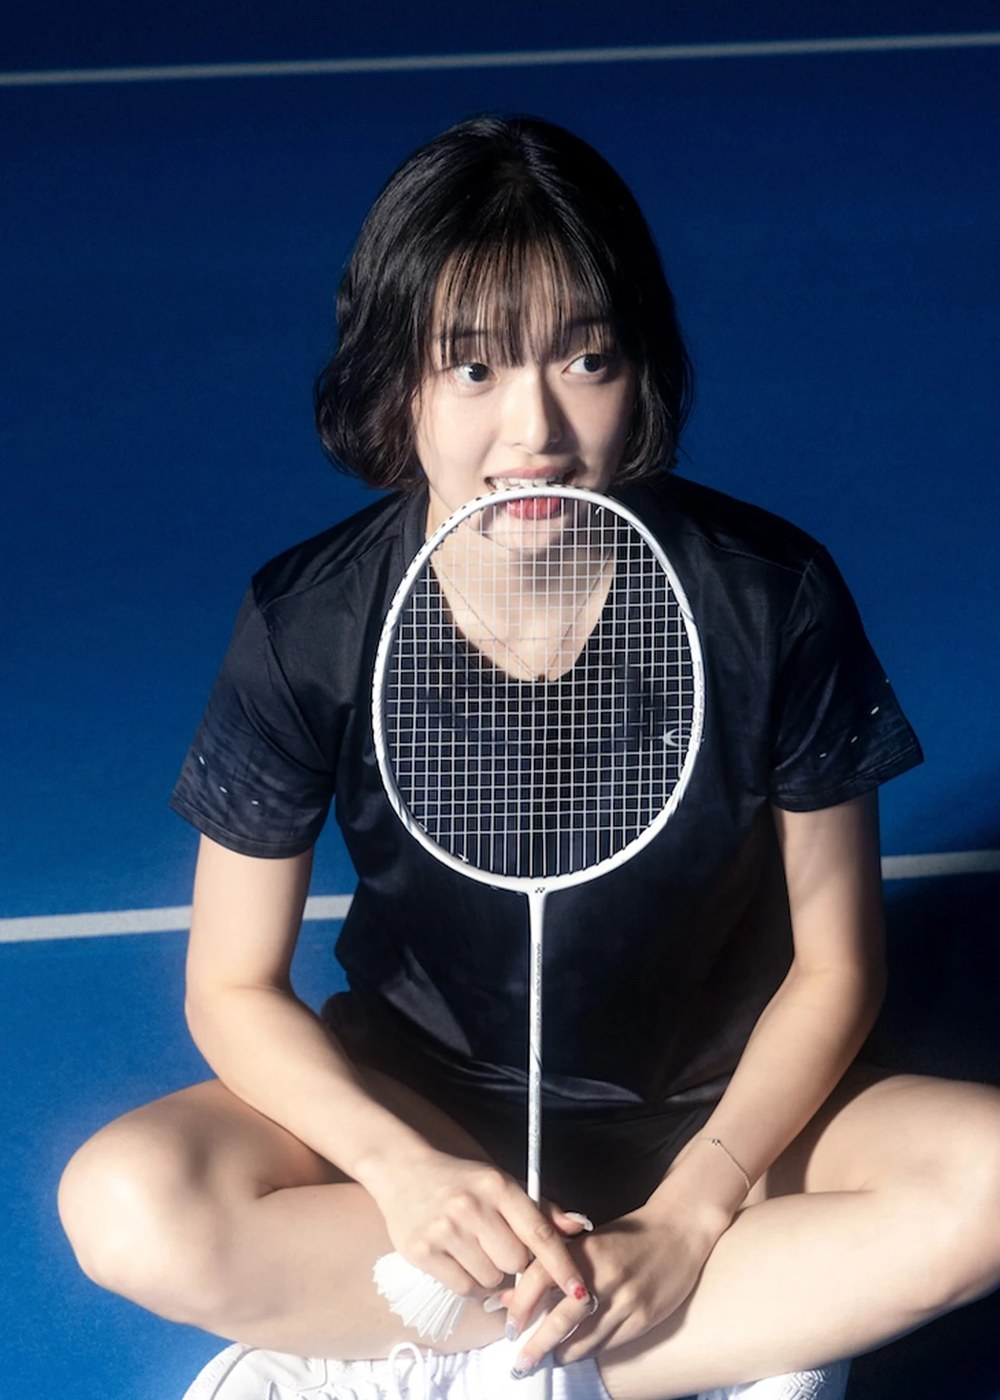
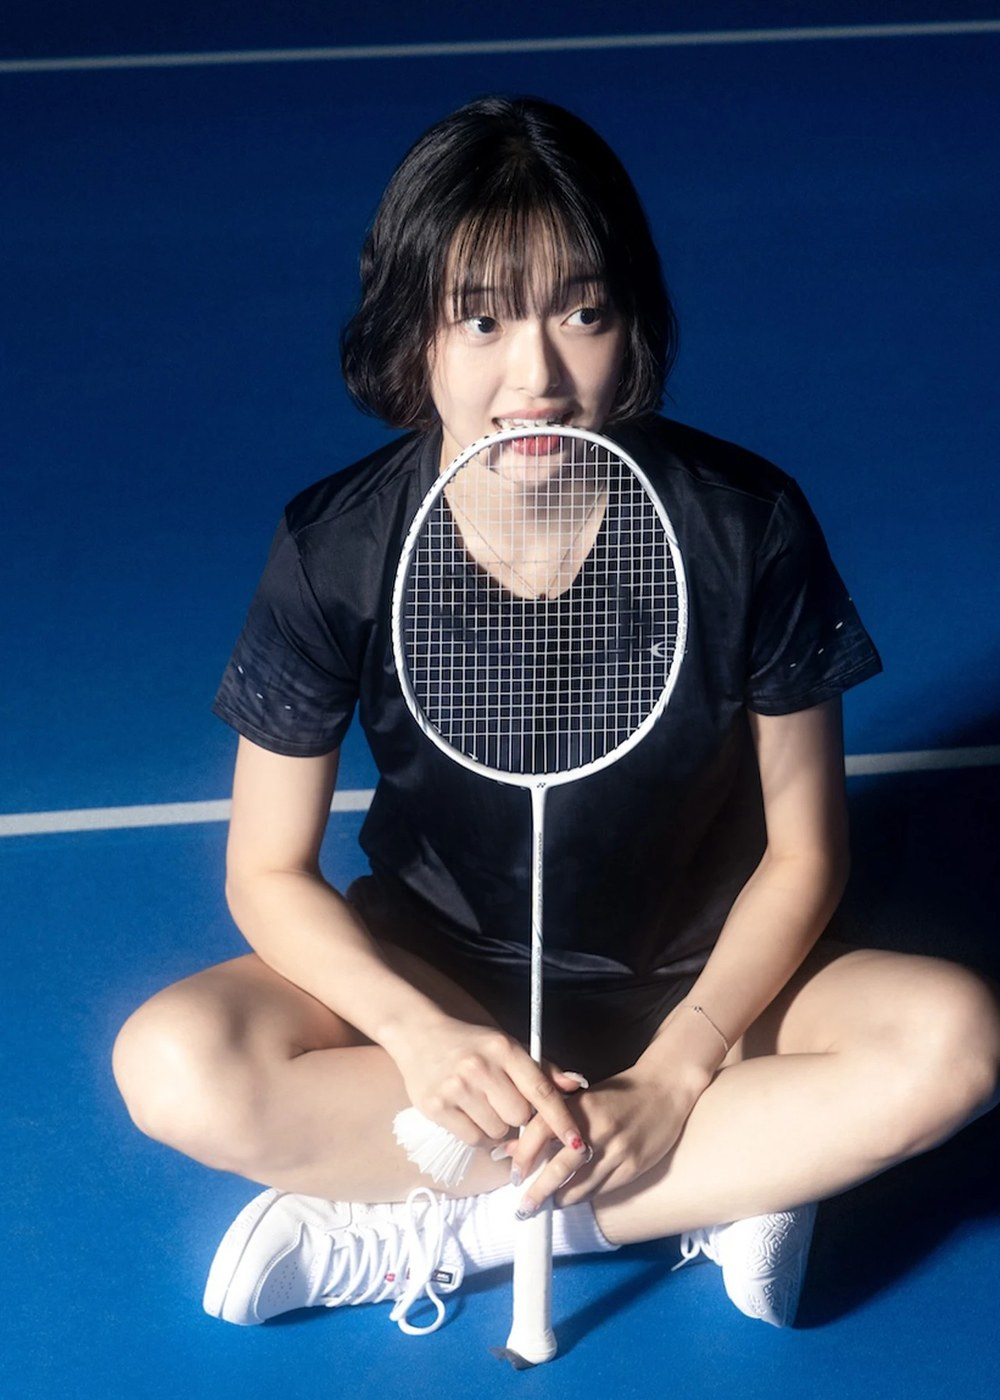
김민지 코치 사진 교체

diff --git a/badminton.html b/badminton.html
@@ -138,7 +138,7 @@
         </div>
       </article>
       <article class="coach rv">
-        <div class="photo"><img src="images/coach/kim-minji.jpg?v=4" alt="김민지 코치"></div>
+        <div class="photo"><img src="images/coach/kim-minji.jpg?v=5" alt="김민지 코치"></div>
         <div class="body">
           <h3 class="en">KIM MINJI</h3>
           <p class="kr">김민지 코치</p>
